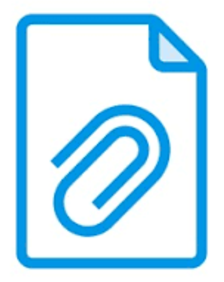
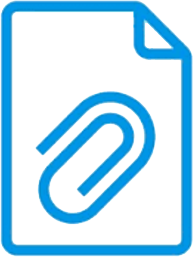
if the file isn't an image, or rather if the thumbnail isn't an image we don't need such a large image.

diff --git a/src/views/TaskMessageItem.vue b/src/views/TaskMessageItem.vue
@@ -3,14 +3,14 @@
     <b-avatar v-if="!is_me" class="mr-1 mb-4 avatar" :text="user_name" v-b-tooltip.hover :title="message.user.name" size="25px" style="width: 25px;" />
     <div>
       <div class="message-wrapper">
-        <div class="message-container" v-on:mouseover="showDownloadBtn = true" v-on:mouseleave="showDownloadBtn = false">
+        <div class="message-container d-flex" v-on:mouseover="showDownloadBtn = true" v-on:mouseleave="showDownloadBtn = false">
           <button v-if="message.thumbnail" @click="openImage" role="button" title="Open image" aria-label="Open image" aria-disabled="false" tabindex="-1" style="position: relative; display: flex; flex-direction: column; flex-grow: 0; flex-shrink: 0; overflow: hidden; align-items: center; justify-content: center; app-region: no-drag; background-color: transparent; border-color: transparent; text-align: left; border-width: 0px; width: 299.995px; height: 259.938px; border-radius: 0px 10px 10px; padding: 0px; cursor: pointer; border-style: solid;">
             <div role="none" style="position: relative; display: flex; flex-direction: column; flex-grow: 0; flex-shrink: 0; overflow: hidden; align-items: stretch; justify-content: center; border-radius: 0px 10px 10px; width: 299.995px; height: 259.938px;">
               <img v-if="!image_loaded" src="@/assets/img/no-image.png" width="300" height="260" alt="thumbnail" style="position: absolute;" />
               <img :src="'https://projectous-chat-bucket.sfo3.digitaloceanspaces.com/' + message.thumbnail" width="300" height="260" alt="thumbnail" @load="imgLoaded" />
             </div>
           </button>
-          <img v-if="!message.thumbnail && message.isFile" src="@/assets/img/attach-file.png" width="200" height="220" alt="thumbnail" />
+          <img v-if="!message.thumbnail && message.isFile" src="@/assets/img/attach-file.png" width="30" height="34" alt="thumbnail" style="margin-top: 3px; margin-left: 5px;" />
           <div class="download-bg" v-if="!message.thumbnail && message.isFile && showDownloadBtn">
             <i class="icon-download" @click="downloadFile(message)" />
           </div>
@@ -170,7 +170,7 @@ export default {
       .icon-download {
         color: white;
         margin: auto;
-        font-size: 108px;
+        font-size: 31px;
       }
       .icon-download:hover {
         cursor: pointer;
